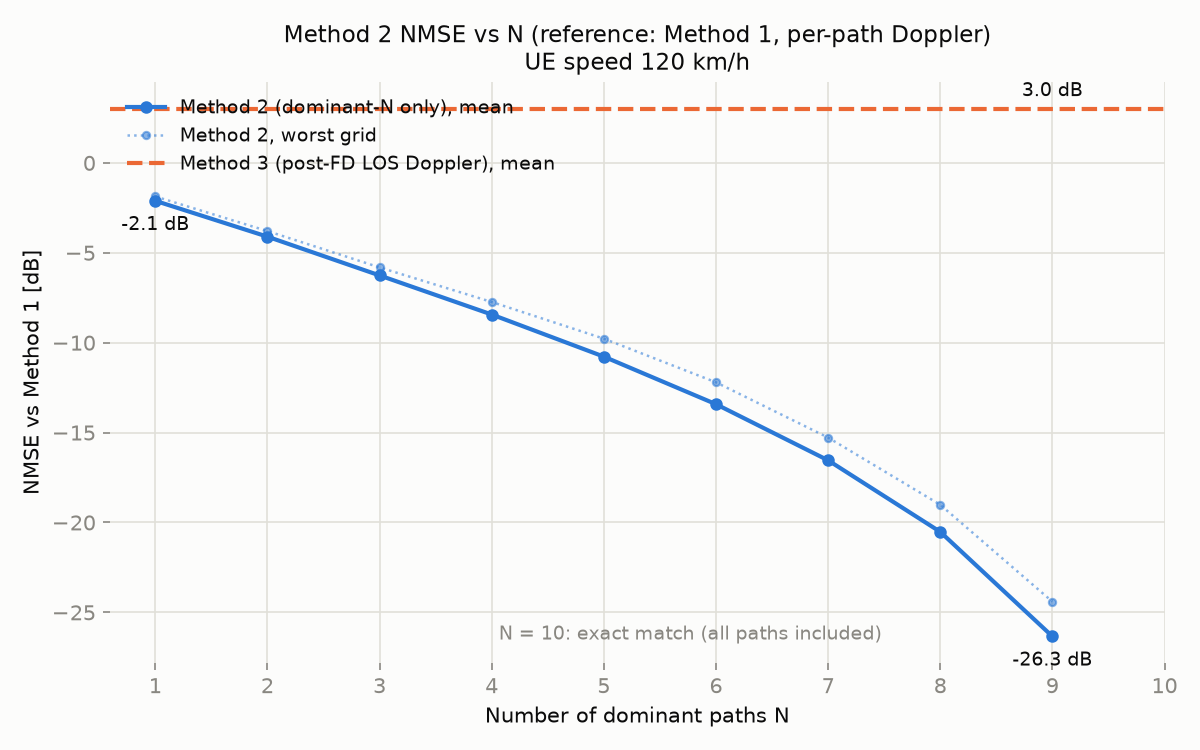
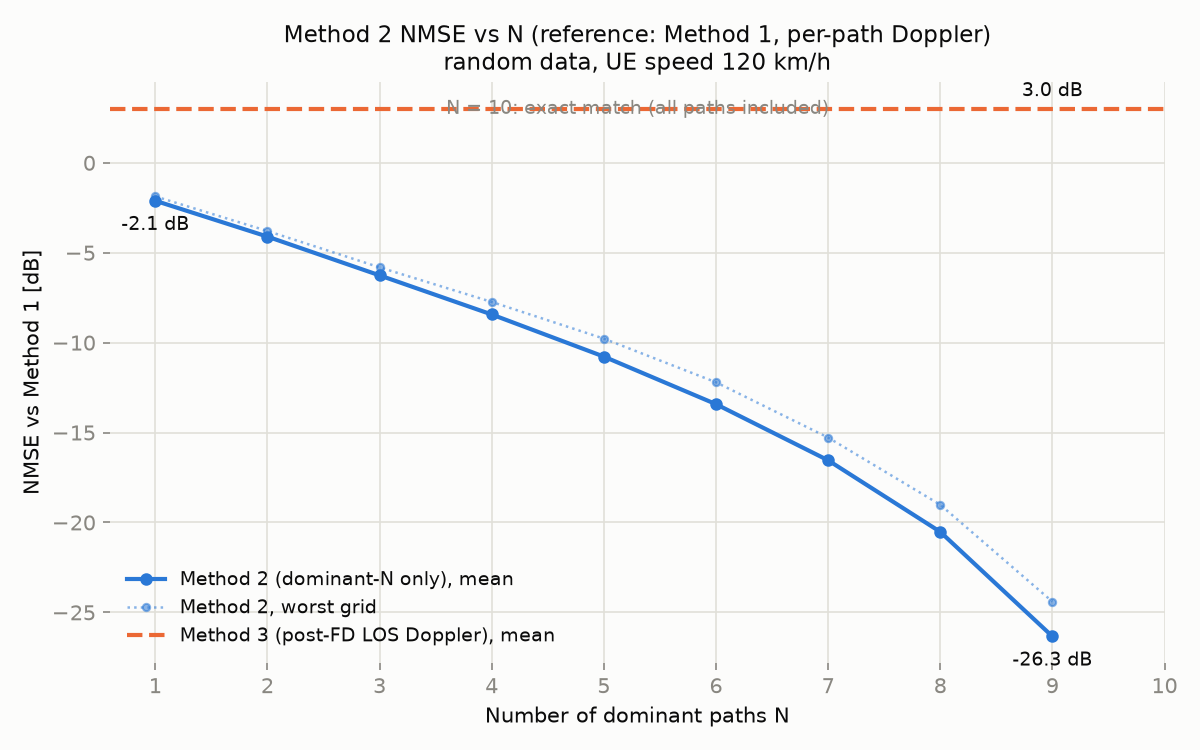
docs: RESULTS.md with random vs geometric (ray-tracing-like) comparison
Adds the geometric-data sweep results (0/60/120 km/h) next to the random
ones, per-grid worst-case table, and the interpretation: method 3 goes from
+0.55/+3.02 dB (random) to -10.9/-7.2 dB (geometric) because its LOS
assumption now matches the data; its floor is set by the K-factor.

plot_sweep: move the "exact match" note to the top so it no longer overlaps
the legend; regenerate all six curves.

Changed region(s): [[0.0925, 0.1227, 0.6783, 0.2453], [0.0925, 0.7667, 0.74, 0.8587], [0.37, 0.0613, 0.7092, 0.092]]

diff --git a/plot_sweep.py b/plot_sweep.py
@@ -80,8 +80,8 @@ def main() -> None:
         ax.annotate(
             f"N = {', '.join(map(str, exact_ns))}: exact match "
             "(all paths included)",
-            (0.55, 0.04), xycoords="axes fraction", ha="center",
-            fontsize=9, color=MUTED)
+            (0.5, 0.97), xycoords="axes fraction", ha="center", va="top",
+            fontsize=9, color=MUTED)  # 범례(좌하단)와 겹치지 않도록 상단 중앙
 
     ax.set_xticks(n_vals)
 

diff --git a/docs/RESULTS.md b/docs/RESULTS.md
@@ -1,8 +1,13 @@
 # Doppler 방식 비교 결과 (방식 1 기준 NMSE)
 
-- 실험 일자: 2026-07-25, CI run [30149086893](https://github.com/csungq-eng/doppler_sim/actions/runs/30149086893)
-- 입력 데이터: 가상 레이트레이싱 binary (per-antenna-pair 모드, grid 100개,
-  BS 64 × UE 4, grid·pair당 path 3~10개(평균 6.5), seed 2026)
+- 실험 일자: 2026-09-14, CI run [34857068499](https://github.com/csungq-eng/doppler_sim/actions/runs/34857068499)
+- 입력 데이터 두 종류 (모두 per-antenna-pair 모드, grid 100개, BS 64 × UE 4,
+  path 3~10개, seed 2026):
+  - **random**: AoA 전방위 uniform, pair마다 독립인 path 집합 (기하 정보 없음)
+  - **geometric**: 기지국·grid·산란체 위치에서 계산한 LOS + 단일 반사 path
+    (실제 레이트레이싱 모사). LOS AoA가 기지국 방향과 일치, K-factor 평균 7.8 dB
+    (LOS 전력 84%), 산란체 15개를 전 grid 공유, pair 간에는 element 위치에 따른
+    tau 차이만 존재. 자세한 정의는 [README](../README.md#생성-시나리오) 참조.
 - OFDM: fc 3.5 GHz, SCS 15 kHz, subcarrier 3276개 → H는 64 × 4 × 3276
 - 단말 이동성: 방향 45°, snapshot t = 1 ms, 속도 0 / 60 / 120 km/h
   (최대 Doppler: 0 / 194.6 / 389.2 Hz)
@@ -15,82 +20,106 @@
 |---|---|
 | 1 (기준) | 각 path에 Doppler 적용 후 주파수 채널 변환 |
 | 2 | power 상위 dominant N개 path만으로 채널 구성(나머지 제외) + path별 Doppler |
-| 3 | Doppler 없이 주파수 변환 후, LOS 방향(BS→grid 상대 벡터를 AoA로 가정) 단일 Doppler로 전체 행렬 위상 회전 |
+| 3 | Doppler 없이 주파수 변환 후, LOS 방향(grid→기지국 방위각을 AoA로 가정) 단일 Doppler로 전체 행렬 위상 회전 |
 
 ## 결과 표 (평균 NMSE [dB])
 
-| N (방식 2) | v = 0 km/h | v = 60 km/h | v = 120 km/h |
-|---|---|---|---|
-| 1 | −2.14 | −2.12 | −2.11 |
-| 2 | −4.13 | −4.12 | −4.10 |
-| 3 | −6.26 | −6.26 | −6.26 |
-| 4 | −8.45 | −8.43 | −8.43 |
-| 5 | −10.79 | −10.79 | −10.78 |
-| 6 | −13.43 | −13.43 | −13.42 |
-| 7 | −16.55 | −16.56 | −16.54 |
-| 8 | −20.53 | −20.53 | −20.52 |
-| 9 | −26.35 | −26.34 | −26.33 |
-| 10 | 정확히 일치* | 정확히 일치* | 정확히 일치* |
-| **방식 3** | **정확히 일치** | **+0.55** | **+3.02** |
+| N (방식 2) | random v=0 | random v=60 | random v=120 | geometric v=0 | geometric v=60 | geometric v=120 |
+|---|---|---|---|---|---|---|
+| 1 | −2.14 | −2.12 | −2.11 | −8.05 | −8.04 | −8.05 |
+| 2 | −4.13 | −4.12 | −4.10 | −10.21 | −10.21 | −10.21 |
+| 3 | −6.26 | −6.26 | −6.26 | −12.05 | −12.05 | −12.05 |
+| 4 | −8.45 | −8.43 | −8.43 | −13.87 | −13.87 | −13.88 |
+| 5 | −10.79 | −10.79 | −10.78 | −15.69 | −15.69 | −15.69 |
+| 6 | −13.43 | −13.43 | −13.42 | −17.63 | −17.63 | −17.63 |
+| 7 | −16.55 | −16.56 | −16.54 | −19.97 | −19.97 | −19.97 |
+| 8 | −20.53 | −20.53 | −20.52 | −23.01 | −23.01 | −23.01 |
+| 9 | −26.35 | −26.34 | −26.33 | −27.66 | −27.67 | −27.67 |
+| 10 | 정확히 일치* | 정확히 일치* | 정확히 일치* | 정확히 일치* | 정확히 일치* | 정확히 일치* |
+| **방식 3** | **정확히 일치** | **+0.55** | **+3.02** | **정확히 일치** | **−10.86** | **−7.15** |
 
 \* N = 10은 최대 path 수라 방식 2 == 방식 1 (−318 dB = 수치 오차 수준).
 방식 3의 "정확히 일치"는 v = 0이면 Doppler 회전이 없어 방식 1과 같아지기 때문.
 
-최악 grid 기준(최대 NMSE)도 경향은 동일: 방식 2는 평균보다 0.3~2 dB 높고,
-방식 3은 60 km/h에서 +2.06 dB, 120 km/h에서 +3.32 dB.
+최악 grid 기준(최대 NMSE):
+
+| | random v=60 | random v=120 | geometric v=60 | geometric v=120 |
+|---|---|---|---|---|
+| 방식 2, N=1 | −1.87 | −1.87 | −5.02 | −5.11 |
+| 방식 2, N=3 | −5.79 | −5.81 | −7.84 | −7.85 |
+| 방식 3 | +2.08 | +3.30 | −5.20 | −1.49 |
 
 ## 곡선
 
-| v = 0 km/h | v = 60 km/h | v = 120 km/h |
-|---|---|---|
-| ![v0](img/nmse_sweep_v0.png) | ![v60](img/nmse_sweep_v60.png) | ![v120](img/nmse_sweep_v120.png) |
+| | v = 0 km/h | v = 60 km/h | v = 120 km/h |
+|---|---|---|---|
+| random | ![](img/nmse_sweep_v0.png) | ![](img/nmse_sweep_v60.png) | ![](img/nmse_sweep_v120.png) |
+| geometric | ![](img/nmse_sweep_geo_v0.png) | ![](img/nmse_sweep_geo_v60.png) | ![](img/nmse_sweep_geo_v120.png) |
 
-원본 수치: [img/nmse_sweep_v0.csv](img/nmse_sweep_v0.csv),
-[v60](img/nmse_sweep_v60.csv), [v120](img/nmse_sweep_v120.csv)
+원본 수치: `img/nmse_sweep_v{0,60,120}.csv`, `img/nmse_sweep_geo_v{0,60,120}.csv`
 
 ## 해석
 
-**방식 2의 NMSE는 속도와 사실상 무관하다 (세 열이 소수점 둘째 자리까지 거의
-동일).** 이는 방식 2의 오차가 Doppler 근사가 아니라 **path 제외(truncation)
-자체**에 지배된다는 뜻이다. 실제로 v = 0에서도(Doppler가 아예 없어도) NMSE가
-그대로인데, 이때의 오차는 순수하게 버려진 path들의 전력이다. NMSE ≈ 제외된
-전력 비율이라는 근사가 전 구간에서 성립한다 (예: N=3에서 하위 path들의 전력
-합 평균 23.6% → −6.3 dB).
+### 방식 2: 오차는 속도와 무관, 버려진 path 전력이 결정
 
-**방식 3의 오차는 속도에 비례해 커진다: 0 km/h(오차 0) → 60 km/h(+0.55 dB) →
-120 km/h(+3.02 dB).** 방식 3은 t 동안 path별로 제각각 회전한 위상(각 path당
-2π·f_d,p·t)을 단 하나의 LOS 방향 위상으로 보정하는데, 속도가 커질수록 회전량
-자체가 커져(120 km/h, 1 ms에서 최대 0.39 사이클) 잘못된 방향의 보정이 채널을
-더 크게 망가뜨린다. NMSE가 0 dB를 넘는 것은 "보정을 안 한 것보다 나쁘다"는
-의미다.
+두 데이터 모두 방식 2의 NMSE는 속도에 따라 소수점 둘째 자리까지 거의 변하지
+않는다. v = 0(Doppler 없음)에서도 같은 값이므로 오차는 Doppler 근사가 아니라
+**path 제외(truncation) 자체**이며, NMSE ≈ 제외된 전력 비율이라는 근사가 전
+구간에서 성립한다.
 
-**결론: 이 데이터에서는 N = 1(최강 path 하나)만으로도 방식 2가 방식 3을 모든
-속도에서 능가한다.** 속도가 빠를수록 격차는 더 벌어진다.
+geometric 데이터는 전력이 LOS에 집중되어 있어(LOS 84%) 같은 N에서 random보다
+훨씬 낮다: N = 1이면 −8.0 dB(≈ NLOS 전력 16%), N = 3이면 −12.1 dB. random
+데이터에서는 N = 1이 −2.1 dB에 불과했다.
 
-### 주의: 가짜 데이터의 한계
+### 방식 3: 데이터의 LOS 정합 여부가 결정적
 
-현재 입력은 AoA가 전방위 uniform 랜덤이고 pair 간 독립인 가짜 데이터라서
-방식 3에 최악의 조건이다 (LOS 가정과 채널이 무상관). 실제 레이트레이싱
-결과라면:
+**random 데이터에서 방식 3은 보정을 안 한 것보다 나쁘다** (60 km/h +0.55 dB,
+120 km/h +3.02 dB, 100개 grid 전부 −6 dB 이상). AoA가 전방위 uniform이라
+"LOS 방향" 가정이 채널과 무상관이고, 잘못된 방향의 위상 회전이 오히려 오차를
+키운다.
 
-- 첫 path의 AoA가 LOS 방향과 정렬 → 방식 3의 단일 위상 보정이 dominant 성분에
-  대해서는 올바르게 작동 → 방식 3 개선
-- 전력이 상위 3~4개 path에 집중(NLOS 잔여 전력 5% 미만도 흔함) → 방식 2의
-  NMSE 하한이 −13 dB 이하로 내려감 → 방식 2도 개선
+**geometric 데이터에서는 방식 3이 60 km/h에서 −10.9 dB, 120 km/h에서 −7.2 dB로
+크게 개선된다** (최악 grid −5.2 / −1.5 dB, −6 dB보다 나쁜 grid는 100개 중 3개).
+LOS path(전력 84%)의 Doppler는 방식 3의 단일 회전으로 정확히 보정되므로 남는
+오차는 NLOS 성분(16%)의 Doppler 불일치뿐이다. 이 오차는 회전량에 비례해 속도와
+함께 커진다: 60 km/h·1 ms에서 최대 0.19 사이클 → 120 km/h에서 0.39 사이클.
+120 km/h의 −7.2 dB는 NLOS 전력(−8 dB)에 근접하는데, 이는 NLOS 성분의 위상이
+LOS 기준으로 거의 무작위화되어 오차가 NLOS 전력 수준으로 포화되기 때문이다.
+즉 **방식 3의 NMSE 하한은 대략 −(K-factor)이며, 속도가 빨라질수록 거기에
+수렴한다.**
 
-두 방식 모두 좋아지지만, 방식 3은 NLOS 성분의 이질적 Doppler를 원리적으로
-표현할 수 없으므로 방식 2 우위라는 결론 자체는 유지될 것으로 예상된다.
-정량 확인을 위해서는 Python 생성기의 AoA/전력 분포를 LOS 중심으로 바꿔
-재실험하면 된다.
+### 방식 2 vs 방식 3 (geometric 기준)
+
+- 60 km/h: 방식 3(−10.9 dB)은 방식 2의 N = 2(−10.2)와 N = 3(−12.1) 사이.
+  즉 path 정보 없이 LOS 방향만 알면 dominant 2~3개 path를 쓰는 것과 동급.
+- 120 km/h: 방식 3(−7.2 dB)은 N = 1(−8.0)보다도 약간 나쁘다.
+- 방식 2는 N을 늘리면 계속 좋아지지만(N = 4에서 −13.9 dB, N = 9에서 −27.7 dB),
+  방식 3은 K-factor로 정해진 하한 아래로 내려갈 수 없다.
+
+**결론: random 데이터의 "방식 3은 쓸모없다"는 결론은 데이터의 비현실성 때문이었다.
+실제 레이트레이싱을 모사한 데이터에서는 방식 3이 저속(≤ 60 km/h)·높은 K-factor
+환경에서 실용적인 근사(N = 2~3 수준)이지만, 고속이거나 NLOS 전력이 큰 환경에서는
+dominant N ≥ 3개 path에 개별 Doppler를 적용하는 방식 2가 확실히 낫다.**
+
+### 남은 한계
+
+- geometric 데이터는 2D(azimuth) 단일 반사 모델이며 grid별 차폐가 독립 확률이다.
+  실제 레이트레이싱은 다중 반사·회절·3D 각도를 포함하므로 K-factor 분포가 다를
+  수 있다. `SimulationConfig`의 `reflection_loss_db_range`, `num_scatterers`,
+  `scatterer_visibility`로 K-factor를 조정해 민감도를 볼 수 있다.
+- 방식 3의 LOS 방향은 grid 좌표에서 계산한 이상값을 쓴다. 실제로는 위치 오차가
+  있으므로 방식 3의 성능은 이보다 나빠진다.
 
 ## 재현 방법
 
-[USAGE.md](USAGE.md) 참조. 요약: push하면 CI가 세 속도의 sweep을 자동 실행하고
-`doppler-results` artifact(CSV + PNG)를 업로드한다. 로컬 재현은:
+[USAGE.md](USAGE.md) 참조. 요약: push하면 CI가 두 데이터 × 세 속도의 sweep을
+자동 실행하고 `doppler-results` artifact(CSV + PNG)를 업로드한다. 로컬 재현은:
 
 ```bash
-./build/poc_doppler --binary output_per_pair/raytracing_result.bin \
+python generate_raytracing.py --geometric --per-pair
+./build/poc_doppler --binary output_geo_per_pair/raytracing_result.bin \
     --speed-kmh 120 --direction-deg 45 --time-ms 1 --sweep-max 10 \
-    --out-csv nmse_sweep_v120.csv
-python plot_sweep.py nmse_sweep_v120.csv nmse_sweep_v120.png "UE speed 120 km/h"
+    --out-csv nmse_sweep_geo_v120.csv
+python plot_sweep.py nmse_sweep_geo_v120.csv nmse_sweep_geo_v120.png \
+    "geometric (ray-tracing-like) data, UE speed 120 km/h"
 ```
